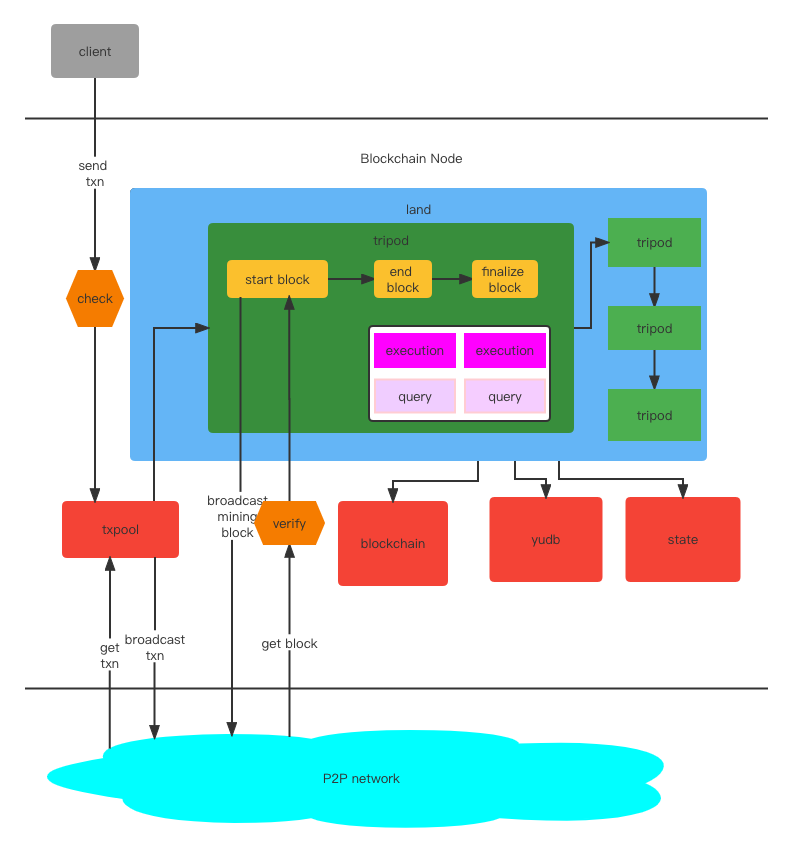
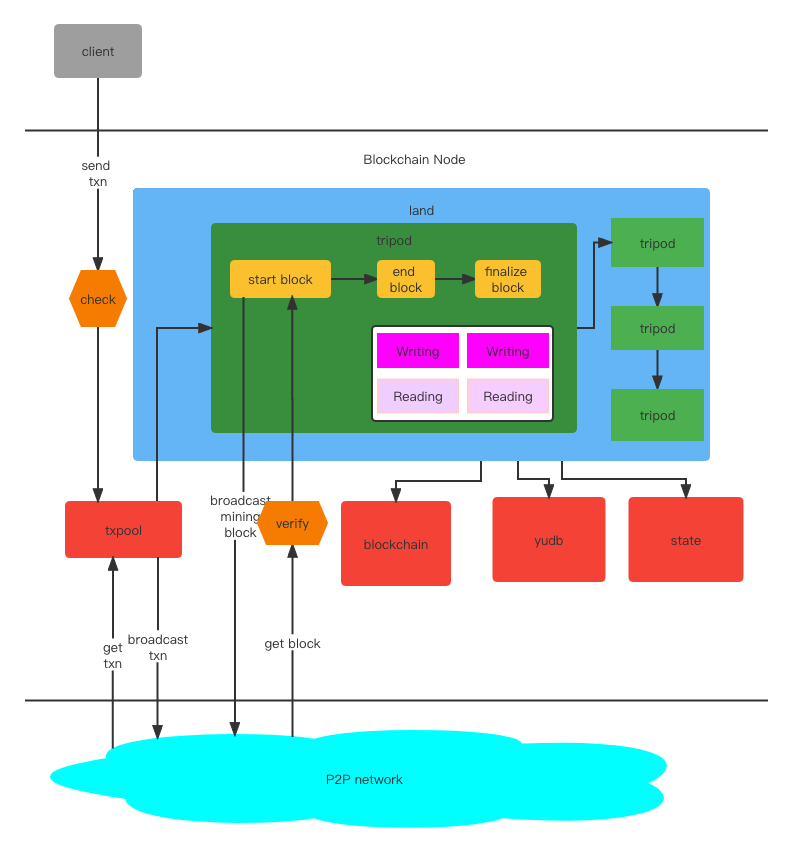
update readme (#33)
* update png

* update readme

diff --git a/README.md b/README.md
@@ -11,25 +11,25 @@ Yu is a highly customizable blockchain framework.
 ## Introduction
 By using Yu, you can customize three levels to develop your own blockchain. The `Tripod` is for developers to 
 customize their own business.     
-First level is define  `Execution` and `Query` on chain.  
+First level is define  `Writing` and `Reading` on chain.  
 Second level is define `blockchain lifecycle`. ( including customizable Consensus Algorithm )  
 Third level is define `basic components`, such as `block data structures`, `blockchain`, `yudb`, `txpool`. 
-- Define your `Execution` and `Query` on  chain.  
-`Execution` is like `Transaction` in Ethereum but not only for transfer of Token, it changes the state on the chain and must be consensus on all nodes.  
-`Query` is like `query` in Ethereum, it doesn't change state, just query some data from the chain.  
+- Define your `Writing` and `Reading` on  chain.  
+`Writing` is like `Transaction` in Ethereum but not only for transfer of Token, it changes the state on the chain and must be consensus on all nodes.  
+`Reading` is like `query` in Ethereum, it doesn't change state, just query some data from the chain.  
 `P2pHandler` is a p2p server handler. You can define the services in P2P server. Just like TCP handler.  
 
 ```go
 type (
-    Execution func(ctx *context.Context, currentBlock *types.Block) error
+    Writing func(ctx *context.WriteContext) error
 	
-    Query func(ctx *context.Context, blockHash Hash) (respObj interface{}, err error)
+    Reading func(ctx *context.ReadContext) (respObj interface{}, err error)
 
     P2pHandler func([]byte) ([]byte, error)
 )
 ```
 - Define Your `blockchain lifecycle`, this function is in `Tripod` interface.  
-`CheckTxn` defines the rules for checking transactions(Executions) before inserting txpool.  
+`CheckTxn` defines the rules for checking transactions(Writings) before inserting txpool.  
 `VerifyBlock` defines the rules for verifying blocks.   
 `InitChain` defines business when the blockchain starts up. You should use it to define `Genesis Block`.  
 `StartBlock` defines business when a new block starts. In this func, you can set some attributes( including pack txns from txpool, mining ) in the block,
@@ -60,9 +60,9 @@ type Tripod interface {
 
 [Asset Tripod](https://github.com/yu-org/yu/blob/master/apps/asset)  
 `Asset Tripod` imitates an Asset function, it has `transfer accounts`, `create accounts`.  
-`QueryBalance` queries someone's account balance. It implements type func `Query`.
+`QueryBalance` queries someone's account balance. It implements type func `Reading`.
 ```go
-func (a *Asset) QueryBalance(ctx *context.Context, _ Hash) (interface{}, error) {
+func (a *Asset) QueryBalance(ctx *context.ReadContext) (interface{}, error) {
     account := ctx.GetAddress("account")
     if !a.existAccount(account) {
         return nil, AccountNotFound(account)
@@ -71,11 +71,12 @@ func (a *Asset) QueryBalance(ctx *context.Context, _ Hash) (interface{}, error) 
     return amount, nil
 }
 ```  
-`CreateAccount` creates an account. It implements type func `Execution`.  
+`CreateAccount` creates an account. It implements type func `Writing`.  
 `EmitEvent` will emit an event out of the chain.  
 The error returned will emit out of the chain.
 ```go
-func (a *Asset) CreateAccount(ctx *context.Context, _ *Block) error {
+func (a *Asset) CreateAccount(ctx *context.WriteContext) error {
+    ctx.SetLei(100)
     addr := ctx.Caller
 	amount := big.NewInt(int64(ctx.GetUint64("amount")))
 
@@ -90,15 +91,15 @@ func (a *Asset) CreateAccount(ctx *context.Context, _ *Block) error {
 }
 ```  
 
-We need use `SetExec` and `SetQueries` to set `Execution` and `Query` into `Asset Tripod`.  
-When we set a `Execution`, we need declare how much `Lei`(耜) it consumes. (`Lei` is the same as `gas` in `ethereum` )
+We need use `SetExec` and `SetQueries` to set `Writing` and `Reading` into `Asset Tripod`.  
+When we set a `Writing`, we need declare how much `Lei`(耜) it consumes. (`Lei` is the same as `gas` in `ethereum` )
 ```go
 func NewAsset(tokenName string) *Asset {
     df := NewDefaultTripod("asset")
 
     a := &Asset{df, tokenName}
-    a.SetExec(a.Transfer, 100).SetExec(a.CreateAccount, 10)
-    a.SetQueries(a.QueryBalance)
+    a.SetWritings(a.Transfer, a.CreateAccount)
+    a.SetReadings(a.QueryBalance)
 
     return a
 }
@@ -115,7 +116,7 @@ func main() {
 - Start a new block  
 If there are no verified blocks from P2P network, we pack some txns, mine a new block and broadcast it to P2P network.
 ```go
-func (h *Poa) StartBlock(block *Block) error {
+func (h *Poa) StartBlock(block *Block) {
     ......
 	
     // Get a leader who produce the block of this round. 
@@ -127,21 +128,23 @@ func (h *Poa) StartBlock(block *Block) error {
         if h.useP2pOrSkip(block) {
             logrus.Infof("--------USE P2P Height(%d) block(%s) miner(%s)",
             block.Height, block.Hash.String(), ToHex(block.MinerPubkey))
-            return nil
+            return
         }
     }
 	
-    // Pack transactions(Executions) from Txpool. 
+    // Pack transactions(Writings) from Txpool. 
     txns, err := h.env.Pool.Pack(3000)
     if err != nil {
-        return err
+		logrus.Error(err)
+        return 
     }
     // Make blockHash from trasactions. 
     hashes := FromArray(txns...).Hashes()
     block.TxnsHashes = hashes
     txnRoot, err := MakeTxnRoot(txns)
     if err != nil {
-        return err
+        logrus.Error(err)
+        return 
     }
     block.TxnRoot = txnRoot
 	
@@ -150,14 +153,16 @@ func (h *Poa) StartBlock(block *Block) error {
     // signs block
     block.MinerSignature, err = h.myPrivKey.SignData(block.Hash.Bytes())
     if err != nil {
-        return err
+        logrus.Error(err)
+        return 
     }
     block.MinerPubkey = h.myPubkey.BytesWithType()
 	
     // Reset Txpool for the next block.
     err = h.env.Pool.Reset(block)
     if err != nil {
-        return err
+        logrus.Error(err)
+        return
     }
     
     ......
@@ -169,18 +174,20 @@ func (h *Poa) StartBlock(block *Block) error {
 - End the block  
 We execute the txns of the block and append the block into the chain.
 ```go
-func (h *Pow) EndBlock(block *Block) error {
+func (h *Pow) EndBlock(block *Block) {
     ......
-    // Execute all transactions(executions) of this block.
+    // Execute all transactions(Writings) of this block.
     err := h.env.Execute(block)
     if err != nil {
-        return err
+        logrus.Error(err)
+        return 
     }
 
     // Append the block into the chain.
     err = chain.AppendBlock(block)
     if err != nil {
-        return err
+        logrus.Error(err)
+        return 
     }  
     ......
 }
@@ -188,8 +195,8 @@ func (h *Pow) EndBlock(block *Block) error {
 
 - Finalize the block   
 ```go
-func (h *Poa) FinalizeBlock(block *Block) error {
-    return h.env.Chain.Finalize(block.Hash)
+func (h *Poa) FinalizeBlock(block *Block) {
+    h.env.Chain.Finalize(block.Hash)
 }
 ```
 
